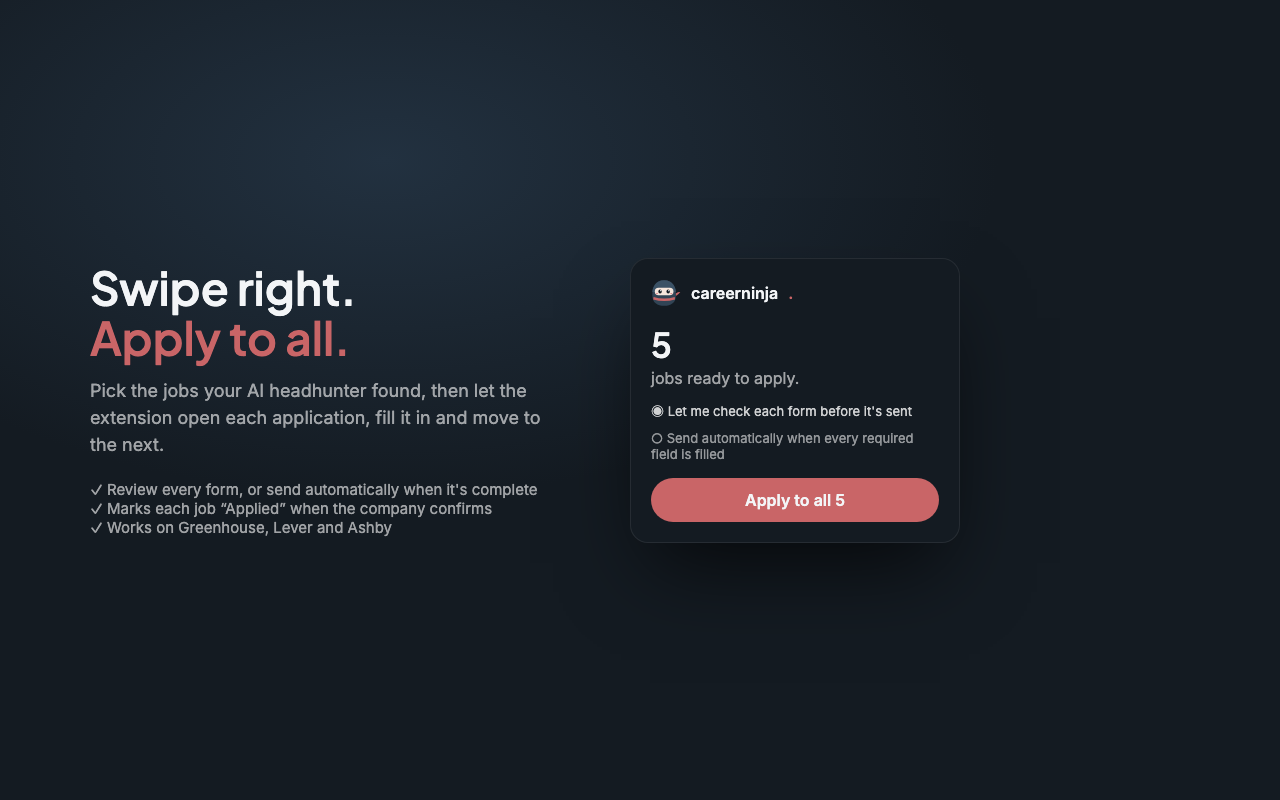
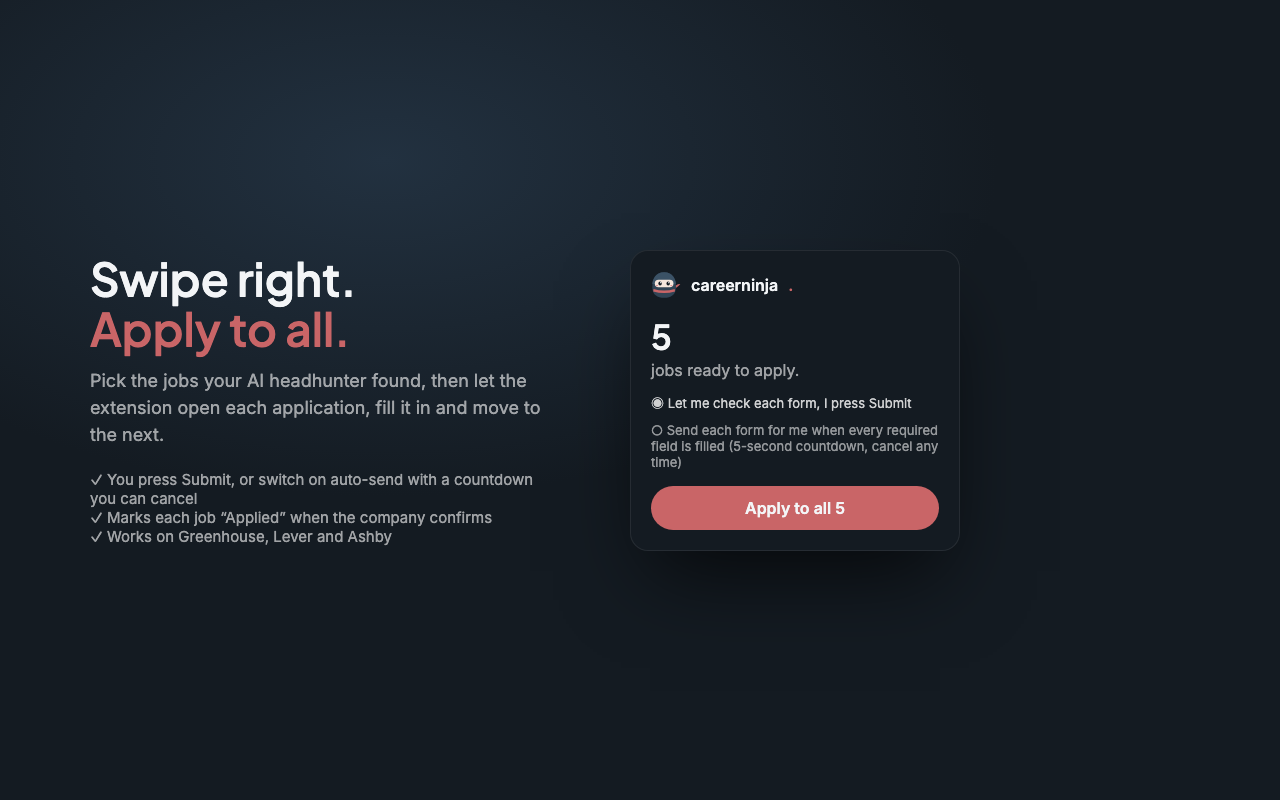
Store screenshots use the current popup wording

Changed region(s): [[0.0625, 0.3125, 0.4375, 0.5625], [0.5, 0.3438, 0.75, 0.6875], [0.0625, 0.5938, 0.4375, 0.6875]]

diff --git a/store/assets/screenshot-2.html b/store/assets/screenshot-2.html
@@ -16,7 +16,7 @@
 </style></head><body style="width:1280px;height:800px"><div style="display:flex;height:800px;align-items:center;padding:0 90px;gap:80px">
     <div style="width:460px"><h1 class="j" style="font-size:46px;line-height:1.08;margin:0 0 14px;font-weight:600">Swipe right.<br><span class="c">Apply to all.</span></h1>
       <p class="m" style="font-size:18px;line-height:1.5;margin:0 0 22px">Pick the jobs your AI headhunter found, then let the extension open each application, fill it in and move to the next.</p>
-      <p class="m" style="font-size:15px;margin:0">✓ Review every form, or send automatically when it's complete<br>✓ Marks each job “Applied” when the company confirms<br>✓ Works on Greenhouse, Lever and Ashby</p></div>
+      <p class="m" style="font-size:15px;margin:0">✓ You press Submit, or switch on auto-send with a countdown you can cancel<br>✓ Marks each job “Applied” when the company confirms<br>✓ Works on Greenhouse, Lever and Ashby</p></div>
     <div style="width:330px;background:#141b22;border-radius:18px;border:1px solid rgba(255,255,255,.08);padding:20px;box-shadow:0 40px 80px -20px rgba(0,0,0,.7)">
       <div style="display:flex;align-items:center;gap:10px;font-weight:600;font-size:16px"><div class="mochi" style="width:30px;height:28px"><svg xmlns="http://www.w3.org/2000/svg" viewBox="18 18 96 90">
   <path d="M84 70 C 98 66, 104 58, 112 60 C 106 68, 98 74, 86 78 Z" fill="#c96567"/>
@@ -33,5 +33,5 @@
 </svg>
 </div>careerninja<span class="c">.</span></div>
       <div class="j" style="font-size:34px;font-weight:600;margin:16px 0 2px">5</div><p class="m" style="margin:0 0 14px">jobs ready to apply.</p>
-      <p style="font-size:13px;color:rgba(255,255,255,.8);margin:8px 0">◉ Let me check each form before it's sent</p><p style="font-size:13px;color:rgba(255,255,255,.55);margin:8px 0">○ Send automatically when every required field is filled</p>
+      <p style="font-size:13px;color:rgba(255,255,255,.8);margin:8px 0">◉ Let me check each form, I press Submit</p><p style="font-size:13px;color:rgba(255,255,255,.55);margin:8px 0">○ Send each form for me when every required field is filled (5-second countdown, cancel any time)</p>
       <div style="margin-top:16px;border-radius:999px;background:#c96567;text-align:center;padding:12px;font-weight:600">Apply to all 5</div></div></div></body></html>
